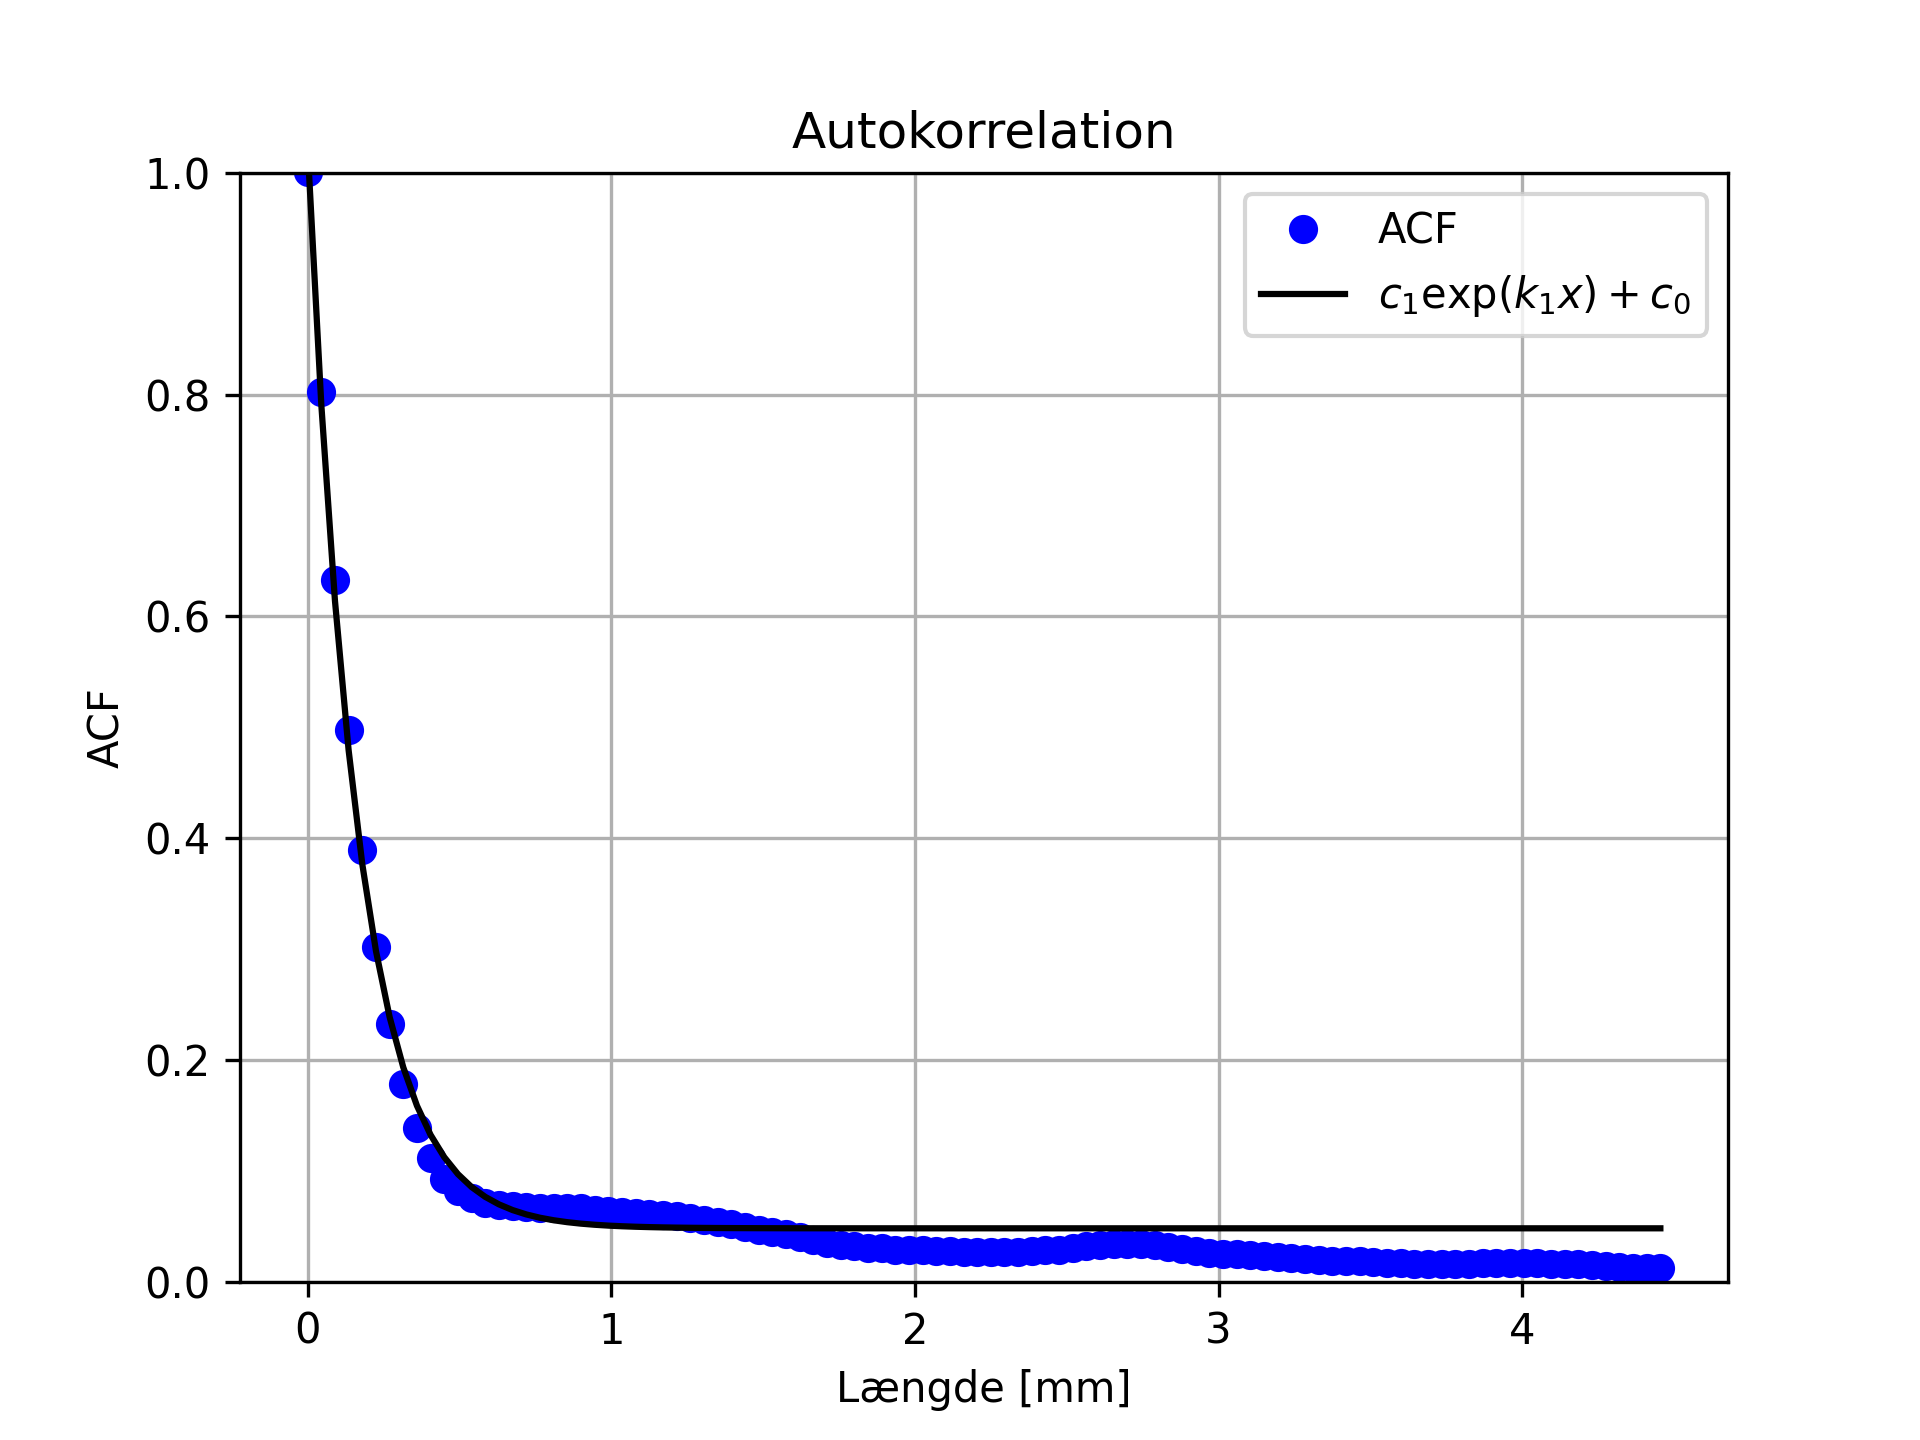
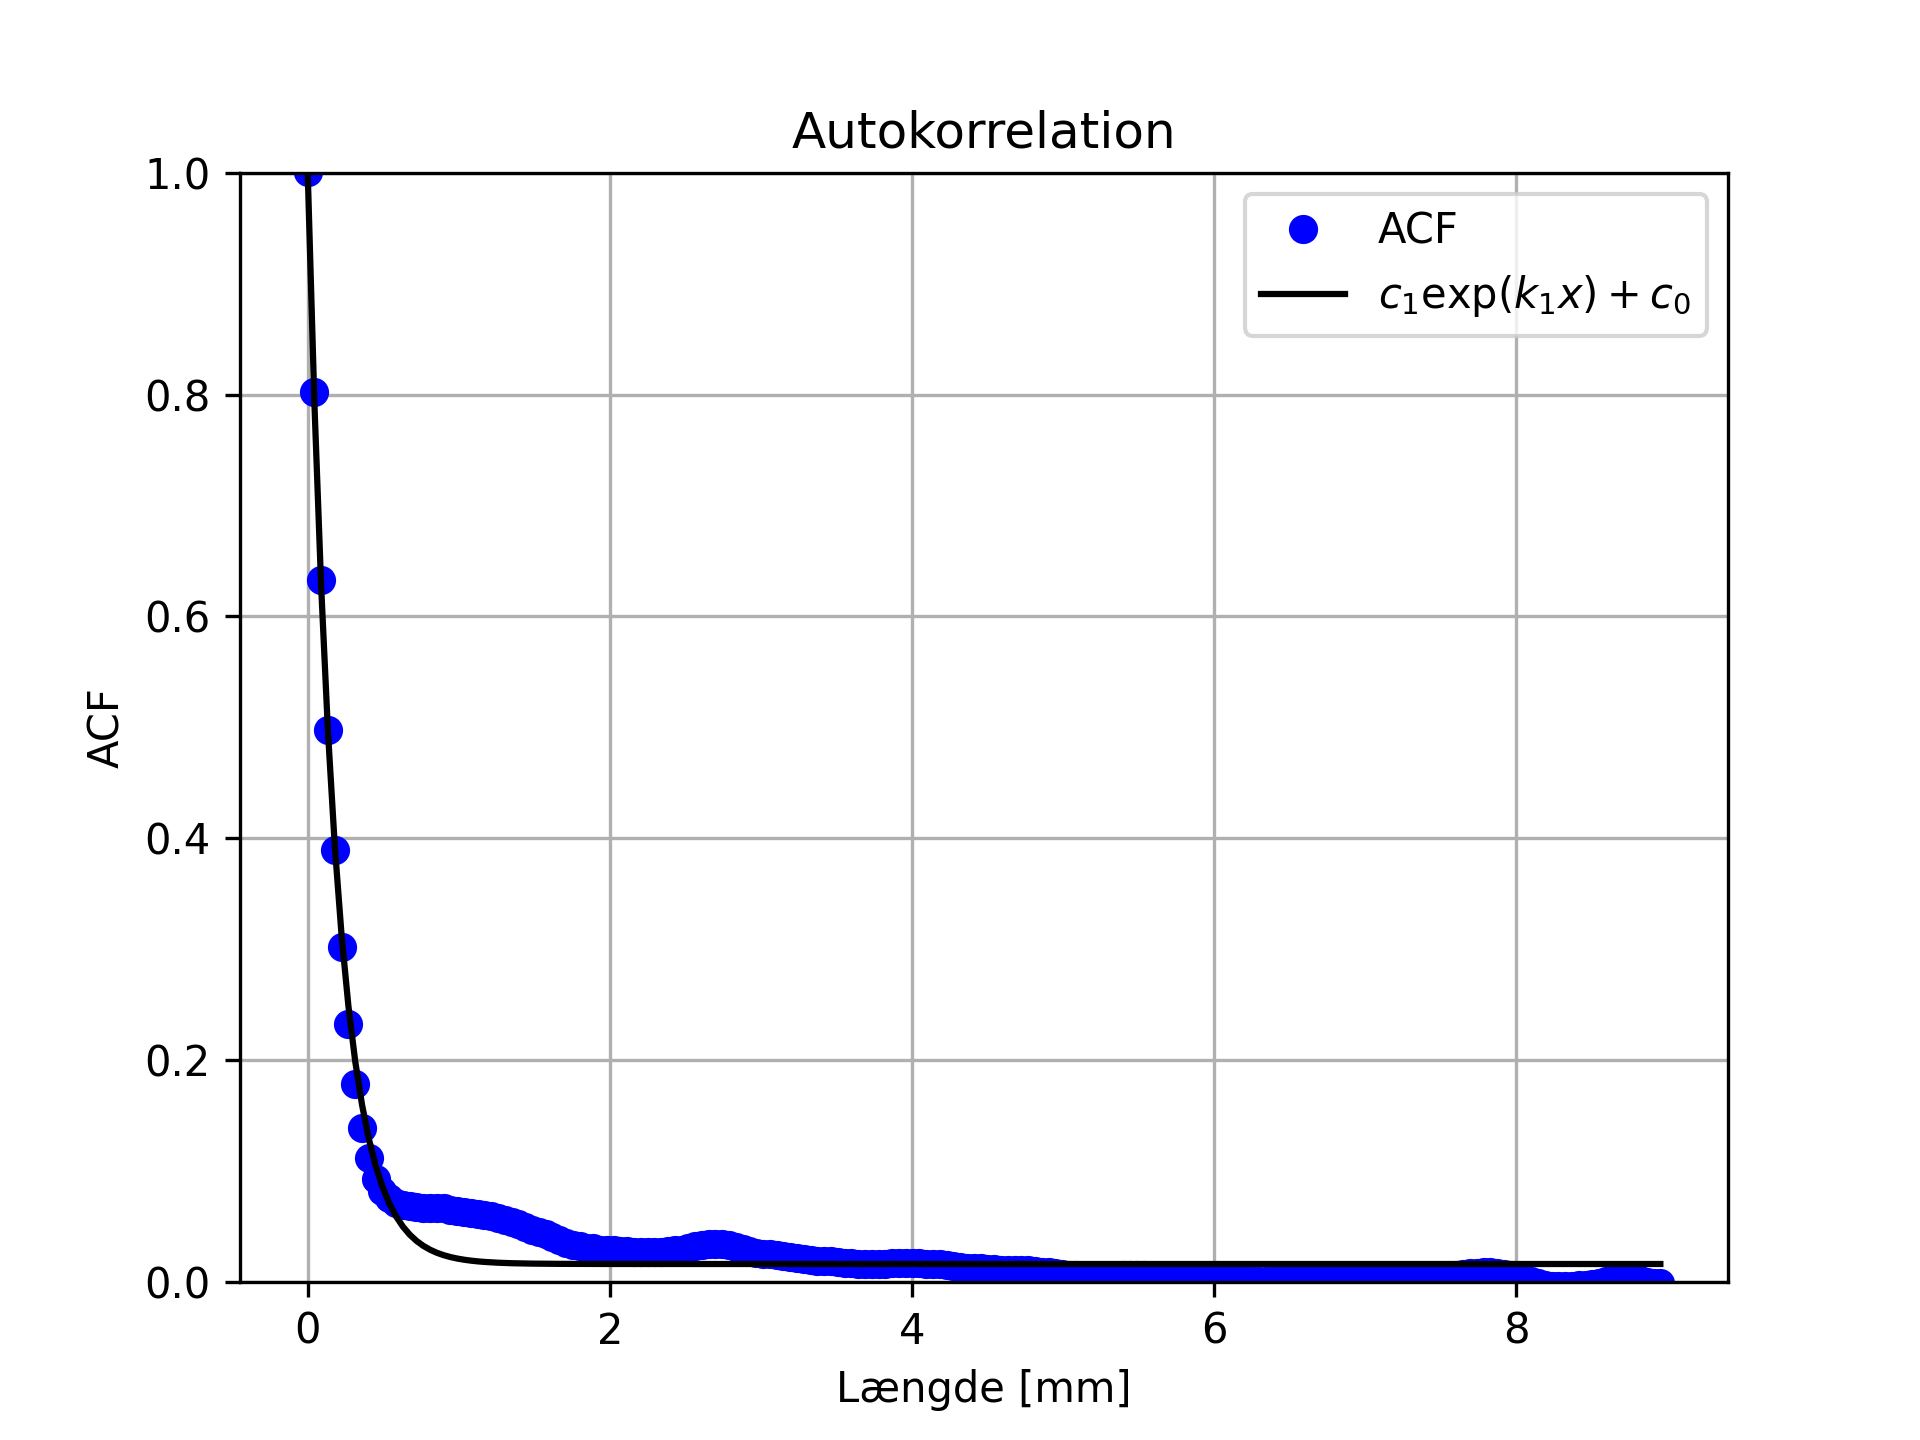
borked acf

Changed region(s): [[0.1562, 0.1562, 0.875, 0.9375]]

diff --git a/acf.py b/acf.py
@@ -6,7 +6,7 @@ from clipBlur import clipBlur
 from numpy.linalg import solve
 
 
-def acf(clip, lags=100, conversion = 90/2000, plot=False, plotfunc=1, plotname="Plot"):
+def acf(clip, lags=100, conversion = 90/2000, plot=False, plotfunc=1, plotname="Plot", ip=0):
 
     #Set plotfunc as iterable
     if type(plotfunc) == int:
@@ -23,7 +23,7 @@ def acf(clip, lags=100, conversion = 90/2000, plot=False, plotfunc=1, plotname="
     if plot:
         for plt in plotfunc:
             fname = f"{plotname}-f{plt}.png"
-            m,fitctrl = plot_acf(M, lags = lags, func = plt, saveas = fname)
+            m,fitctrl = plot_acf(M, lags = lags, func = plt, saveas = fname, lsmpoints=ip)
             #print(f"Error for {plt} is {fitctrl:.4e}")
             if fitctrl < bestfitctrl:
                 #print(f"{fitctrl:.2e} is less than {bestfitctrl:.2e}")
@@ -101,21 +101,24 @@ def autocolen(acf,scale=1):
     return n*scale
 
 
-def plot_acf(acf, lags, n=1, conversion=90/2000, niter=20, func=1, saveas = None, lsmpoints = 21):
+def plot_acf(acf, lags, n=1, conversion=90/2000, niter=20, func=1, saveas = None, lsmpoints = 0):
+
+    #set interp-points
+    if lsmpoints == 0: lsmpoints = lags
 
     x = np.arange(lags)
     y = acf[x]
     x = x*conversion
 
-    sx = x[0:lsmpoints+1]
-    sy = y[0:lsmpoints+1]
+    sx = x#[0:lsmpoints+1]
+    sy = y#[0:lsmpoints+1]
 
     if func == 1:
         m0 = [0.1, 1.1, -1]
     elif func == 2:
-        m0 = [0.1,1,0.1,1.1]
-        sy = np.hstack([np.flip(y[1:]),y])
-        sx = np.hstack([np.flip(-x[1:]),x])
+        m0 = [0.1,0.5,0.1,0.75]
+        sy = np.hstack([np.flip(sy[1:]),sy[1:]])
+        sx = np.hstack([np.flip(-sx[1:]),sx[1:]])
 
     m = lsm(sx, sy, m=m0, niter=niter, func=func)
 
@@ -155,7 +158,7 @@ def plot_acf(acf, lags, n=1, conversion=90/2000, niter=20, func=1, saveas = None
     #print(f"p-value is {pval:.04f}")
     e = np.exp(1)
     acl = [0,
-    -(np.log(np.abs((m[0]*e - 1)/(m[1]*e)))/m[2])/m[2], 
+    -1/m[2], 
     np.sqrt(2)*np.abs(m[1])-m[2]]
 
     functype = ["null", "eksponentiel", "Gauss"]
@@ -180,6 +183,10 @@ def lsm(x,y, m=[0.1, 1.1, -1], niter=50, func=1):
     x = x[:,np.newaxis]
     #print(f"size of x {np.shape(x)}")
 
+    # plt.figure(10+func)
+    # plt.plot(x,y,'k-*')
+    # plt.show()
+
     #Itererer
     for i in range(niter): 
         G = df(m=m, x=x, func=func)
@@ -195,16 +202,18 @@ def lsm(x,y, m=[0.1, 1.1, -1], niter=50, func=1):
         Cobs = np.eye(np.size(x))*sigma
         #print(f"size of cobs {np.shape(Cobs)}")
         A = GT.dot(G)
-        #print(A)
-        #print(np.linalg.det(A))
-        #print(A)
+        print(f"Iteration {i}:")
+        print(A)
+        print(np.linalg.det(A))
+        print(m)
+        #print(A)q
         b = GT.dot(yz)
         #print(b)
 
-        delta = solve(A,b) #Magi
+        delta = solve(A,b) #Magic
         m = m + np.transpose(delta)[0]
         res = np.transpose(delta).dot(delta)[0][0]
-        #print(f"Residuals for {i}: {res}")
+        print(f"Residuals for {i}: {res}")
         if res < 1e-8:
             break
         

diff --git a/Tester.py b/Tester.py
@@ -10,7 +10,7 @@ from acf import acf
 
 clip, blurredClip = clipBlur("20200220_221515.jpg", x=1700, y=3000, marginX=1100, marginY=1000, sigma=1)
 clip[blurredClip > 0.65] = 0
-len,funct = acf(clip, plotname="Name", plot = True, plotfunc = [1, 2], lags=100)
+len,funct = acf(clip, plotname="Name", plot = True, plotfunc = [1, 2], lags=200, ip=40)
 print(f"Autocorrelation length is {len:.3}mm")
 print(f"The best fit is a {funct} function")
 #acf("thin_slices/firstyearice/southerntransect/20200201_145739.jpg", plot=True, plotfunc=2)
